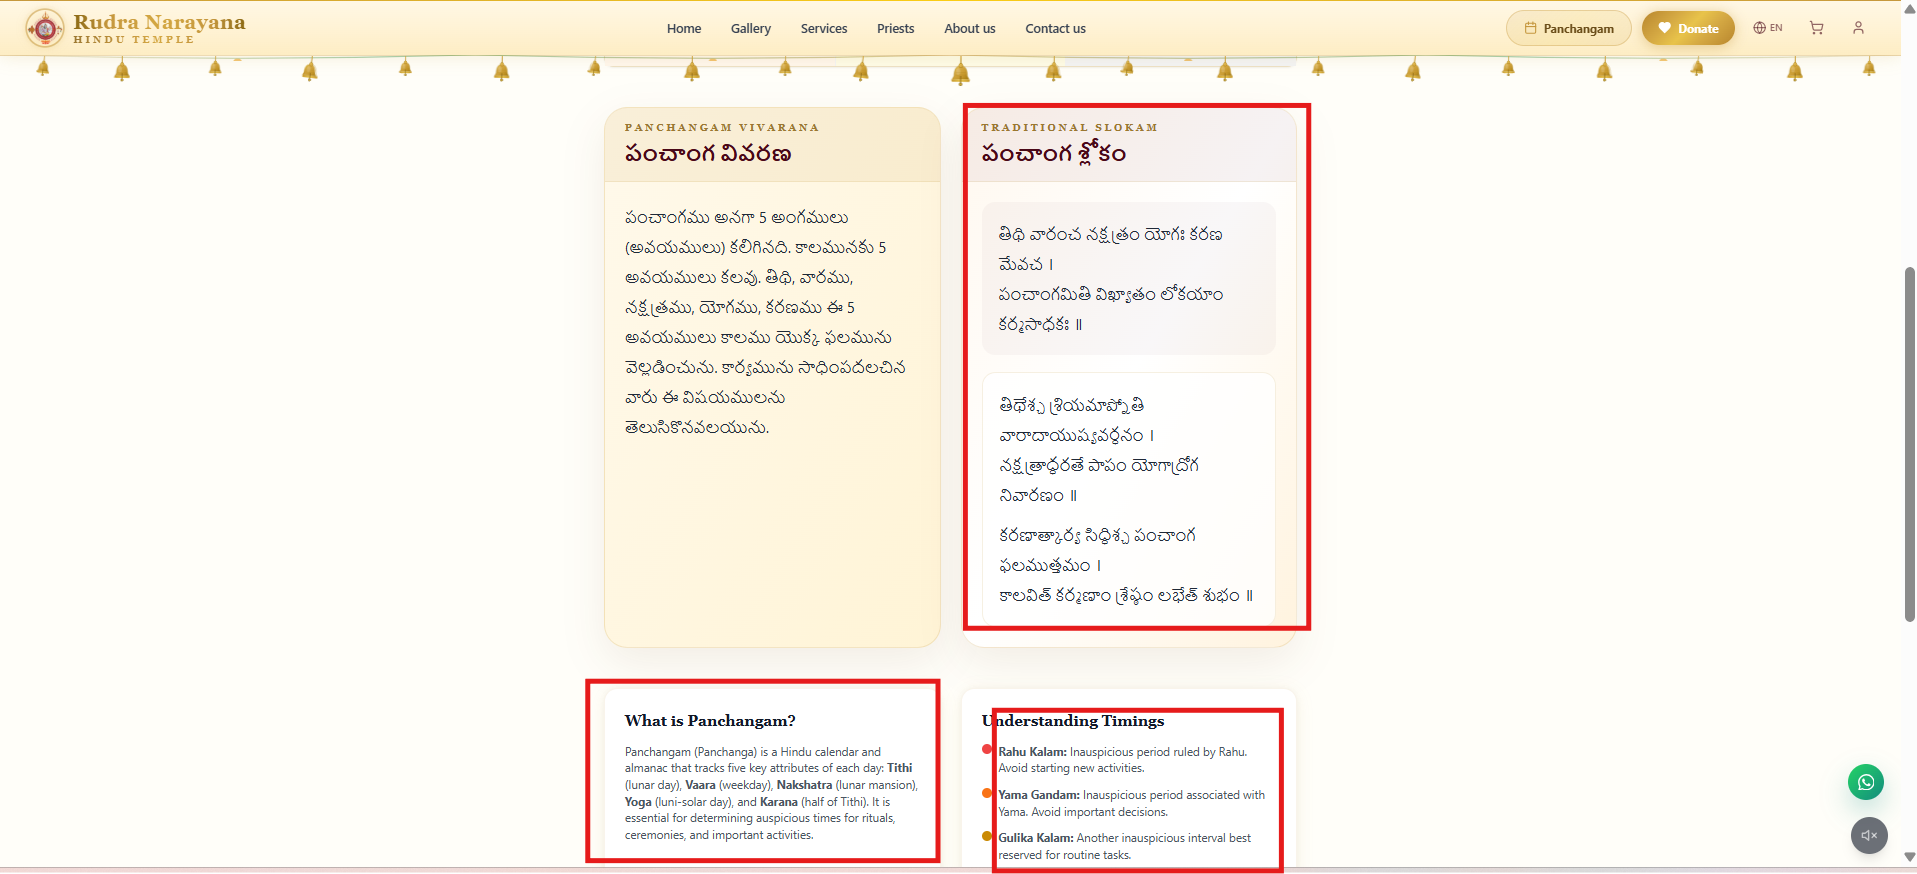
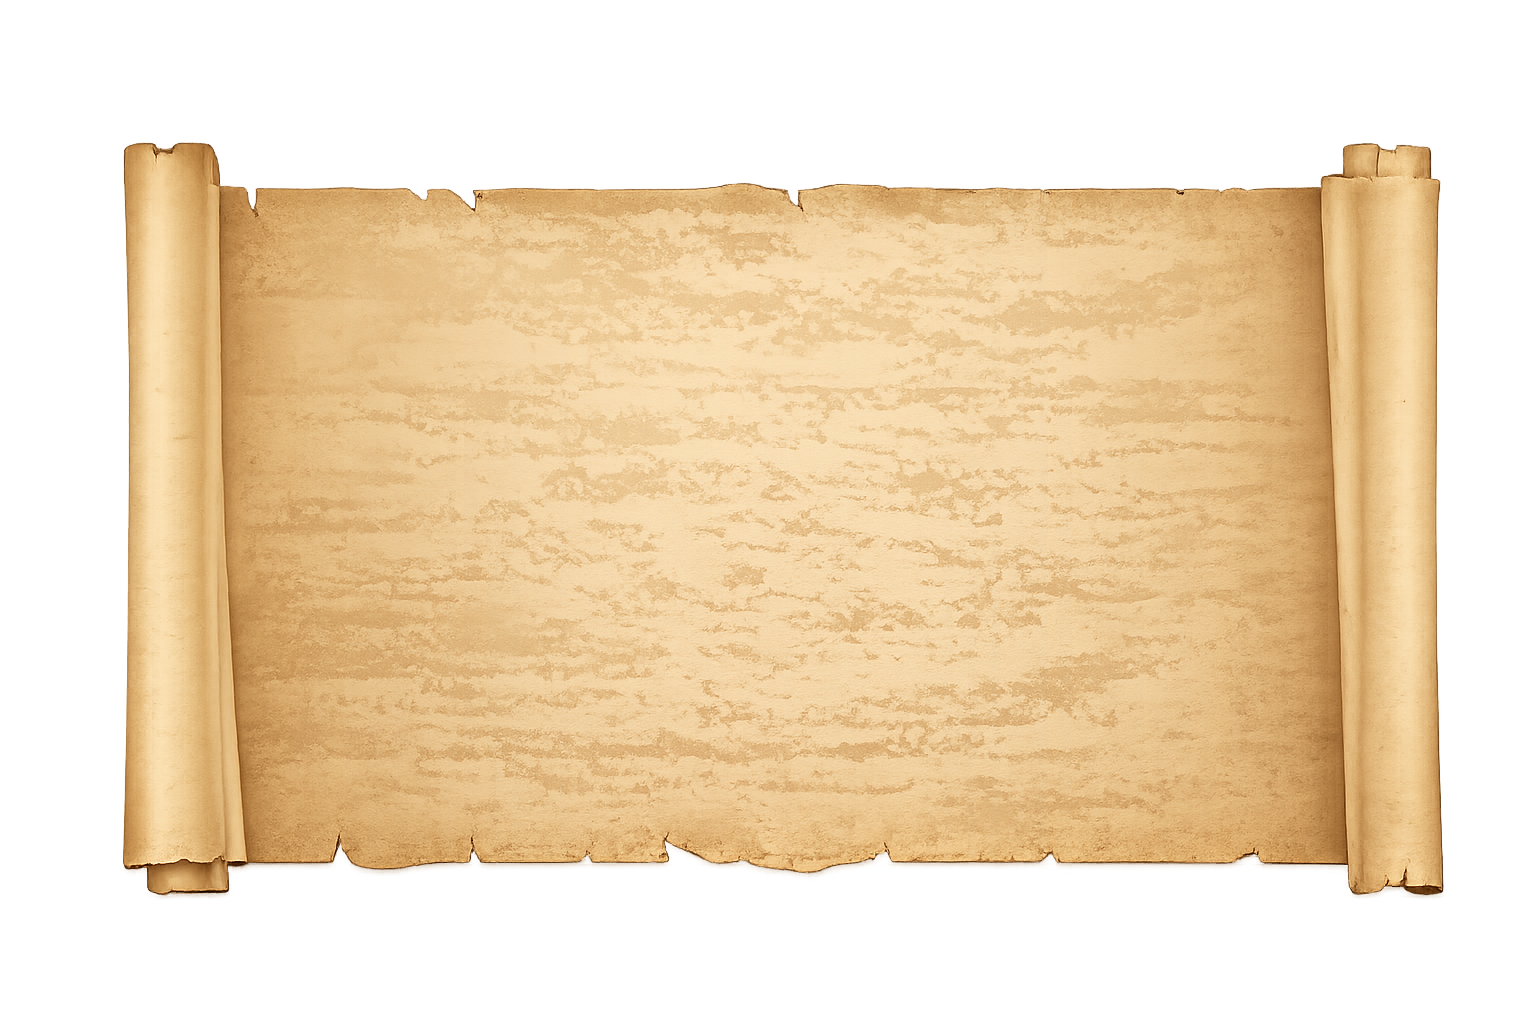
feat(#2): deep-red mandala backdrop per client image; fix parchment asset
- Replace the subtle "blush" tint with the client-provided deep-red mandala
  as a fixed page backdrop (public/red-mandala-bg.png).
- Add PageSurface: wraps non-home routes in a light content sheet so dark
  text stays fully readable on the red backdrop (red shows in the margins).
- Homepage: make the previously-light sections transparent with light
  headings so they sit on the red backdrop.
- Fix #9 asset bug: public/parchment.png was mistakenly the annotation
  screenshot (imagea.png) instead of the parchment scroll (imageb.png).
  This was live on prod; now shows the correct aged-parchment texture.

Verified visually (homepage + interior pages) and via tests/lint/build.

diff --git a/rnht-platform/src/app/page.tsx b/rnht-platform/src/app/page.tsx
@@ -86,7 +86,7 @@ const testimonials = [
 
 export default function HomePage() {
   return (
-    <div className="bg-temple-blush">
+    <div>
       {/* Hero — Three-panel animated slideshow with Ken Burns effect */}
       <HeroSlideshow />
 
@@ -152,14 +152,14 @@ export default function HomePage() {
       <HomePanchangamScroll />
 
       {/* Why Choose RNHT */}
-      <section className="relative py-20 bg-temple-blush overflow-hidden">
+      <section className="relative py-20 overflow-hidden">
         <div className="gold-particles" />
         <div className="relative mx-auto max-w-7xl px-4 sm:px-6 lg:px-8">
           <div className="text-center">
-            <p className="font-accent text-sm font-semibold tracking-[0.2em] uppercase text-temple-gold">Our Promise</p>
-            <h2 className="mt-2 section-heading">Why Choose RNHT</h2>
+            <p className="font-accent text-sm font-semibold tracking-[0.2em] uppercase text-temple-gold-light">Our Promise</p>
+            <h2 className="mt-2 section-heading text-white">Why Choose RNHT</h2>
             <div className="ornament-divider"><span>&#x2733;</span></div>
-            <p className="mx-auto max-w-xl text-gray-600 font-accent text-lg">
+            <p className="mx-auto max-w-xl text-gray-200 font-accent text-lg">
               Trusted by families across Texas for authentic Vedic ceremonies
             </p>
           </div>
@@ -190,7 +190,7 @@ export default function HomePage() {
                 desc: "RNHT is a registered 501(c)(3) nonprofit. All donations and service contributions are tax-deductible.",
               },
             ].map((item) => (
-              <div key={item.title} className="gold-corners flex gap-4 p-6 rounded-2xl bg-gradient-to-br from-temple-ivory/80 to-[#FFF8E7]/60 border border-temple-gold/10 transition-all duration-300 hover:shadow-gold-glow hover:border-temple-gold/25 hover:-translate-y-1">
+              <div key={item.title} className="gold-corners flex gap-4 p-6 rounded-2xl bg-gradient-to-br from-temple-ivory to-[#FFF8E7] border border-temple-gold/20 shadow-premium transition-all duration-300 hover:shadow-gold-glow hover:border-temple-gold/35 hover:-translate-y-1">
                 <CheckCircle className="mt-0.5 h-6 w-6 shrink-0 text-temple-gold" />
                 <div>
                   <h3 className="font-heading font-bold text-temple-maroon text-lg">{item.title}</h3>
@@ -283,7 +283,7 @@ export default function HomePage() {
       </section>
 
       {/* Final CTA — WhatsApp + Donate */}
-      <section className="py-20 bg-temple-blush">
+      <section className="py-20">
         <div className="mx-auto max-w-7xl px-4 sm:px-6 lg:px-8">
           <div className="relative rounded-3xl overflow-hidden shadow-gold-glow-lg">
             {/* Background */}

diff --git a/rnht-platform/src/components/home/HomePanchangamScroll.tsx b/rnht-platform/src/components/home/HomePanchangamScroll.tsx
@@ -131,18 +131,18 @@ export function HomePanchangamScroll() {
   ];
 
   return (
-    <section className="relative overflow-hidden bg-temple-blush py-16 sm:py-20">
+    <section className="relative overflow-hidden py-16 sm:py-20">
       <div className="gold-particles" />
       <div className="relative mx-auto max-w-7xl px-4 sm:px-6 lg:px-8">
         <div className="text-center">
-          <p className="font-accent text-sm font-semibold uppercase tracking-[0.2em] text-temple-gold">
+          <p className="font-accent text-sm font-semibold uppercase tracking-[0.2em] text-temple-gold-light">
             Daily Guidance
           </p>
-          <h2 className="mt-2 section-heading">Today&rsquo;s Panchangam</h2>
+          <h2 className="mt-2 section-heading text-white">Today&rsquo;s Panchangam</h2>
           <div className="ornament-divider">
             <span>&#x2733;</span>
           </div>
-          <p className="mx-auto max-w-xl font-accent text-base text-gray-600 sm:text-lg">
+          <p className="mx-auto max-w-xl font-accent text-base text-gray-200 sm:text-lg">
             Vedic almanac for {p.location} on {formattedDate}
           </p>
         </div>

diff --git a/rnht-platform/src/components/system/PageSurface.tsx b/rnht-platform/src/components/system/PageSurface.tsx
@@ -1,0 +1,27 @@
+"use client";
+
+import { usePathname } from "next/navigation";
+
+/**
+ * Keeps page content readable on the deep-red mandala backdrop (#2).
+ *
+ * - Home (`/`) renders edge-to-edge: its sections are styled to sit directly
+ *   on the red backdrop.
+ * - Every other route is wrapped in a light "content sheet" so the existing
+ *   dark text stays legible, with the red backdrop showing in the margins.
+ */
+export function PageSurface({ children }: { children: React.ReactNode }) {
+  const pathname = usePathname();
+
+  if (pathname === "/") {
+    return <>{children}</>;
+  }
+
+  return (
+    <div className="px-3 py-6 sm:px-5 sm:py-10">
+      <div className="mx-auto max-w-6xl overflow-hidden rounded-[1.75rem] bg-temple-blush/95 shadow-[0_24px_70px_rgba(40,4,10,0.4)] ring-1 ring-temple-gold/25 backdrop-blur-sm">
+        {children}
+      </div>
+    </div>
+  );
+}

diff --git a/rnht-platform/src/app/layout.tsx b/rnht-platform/src/app/layout.tsx
@@ -7,6 +7,7 @@ import { BackgroundMusic } from "@/components/effects/BackgroundMusic";
 import { WhatsAppButton } from "@/components/effects/WhatsAppButton";
 import { StartupValidationNotice } from "@/components/system/StartupValidationNotice";
 import { StoreRehydrator } from "@/components/system/StoreRehydrator";
+import { PageSurface } from "@/components/system/PageSurface";
 import { siteMetadataBase } from "@/lib/site-metadata";
 import "./globals.css";
 
@@ -122,7 +123,9 @@ export default function RootLayout({
         <StoreRehydrator />
         <Header />
         <FallingPetals />
-        <main id="main-content" className="flex-1">{children}</main>
+        <main id="main-content" className="flex-1">
+          <PageSurface>{children}</PageSurface>
+        </main>
         <Footer />
         <WhatsAppButton />
         <BackgroundMusic />

diff --git a/rnht-platform/src/app/globals.css b/rnht-platform/src/app/globals.css
@@ -7,7 +7,16 @@
     scroll-behavior: smooth;
   }
   body {
-    @apply bg-temple-blush text-gray-900 antialiased;
+    @apply text-gray-900 antialiased;
+    /* Client-requested deep-red mandala backdrop (#2). Fixed so it stays a
+       calm canvas behind the content as you scroll. Falls back to a deep
+       red if the image fails to load. */
+    background-color: #7d0f18;
+    background-image: url("/red-mandala-bg.png");
+    background-position: center top;
+    background-size: cover;
+    background-repeat: no-repeat;
+    background-attachment: fixed;
   }
 
   /* Focus visible ring for accessibility */
